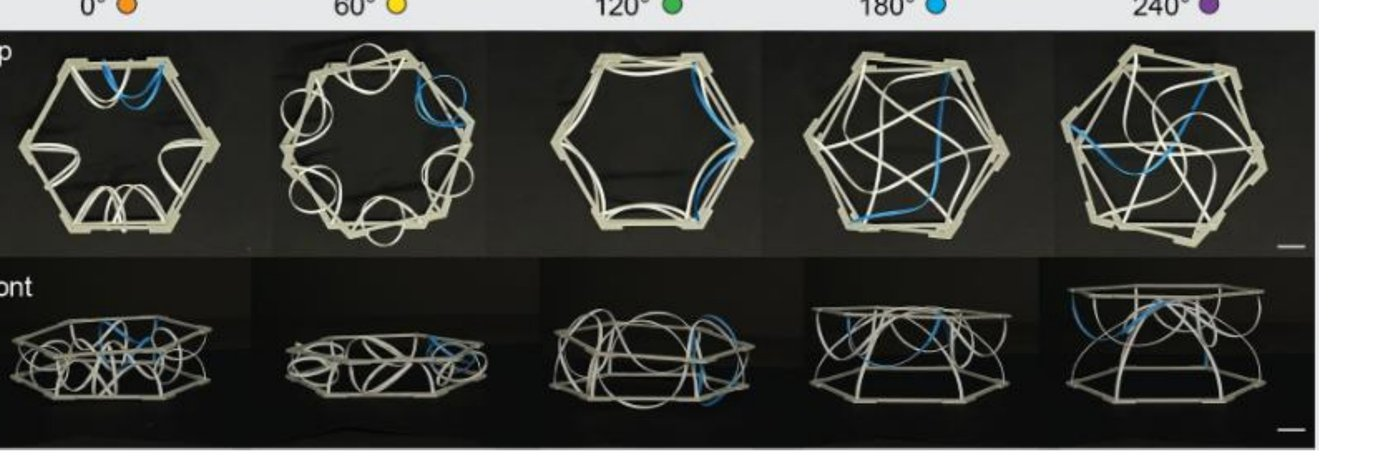
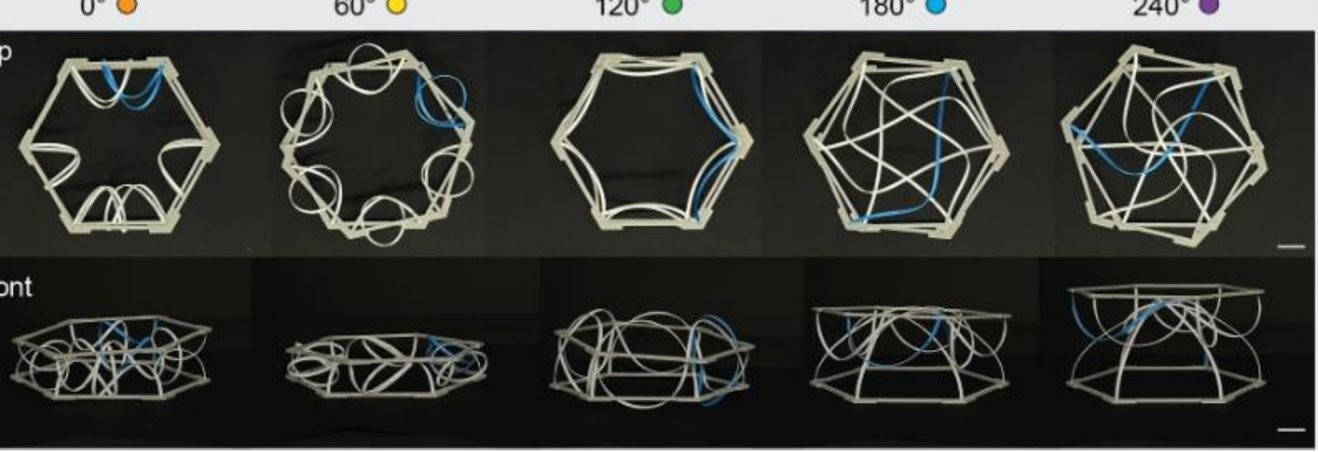
animations

diff --git a/index.html b/index.html
@@ -34,6 +34,7 @@
     <div>
       <div class="eyebrow">Mechanical Engineering &middot; Stanford University &middot; Class of 2028</div>
       <h1>Luca Higgins</h1>
+      <p class="hero-role">Mechanical engineer &amp; <span class="cycle-text" id="cycle-word"></span></p>
       <p class="lead">I design and build robots that swim through blood vessels, fly through the sky, and dive underwater — plus everything in between, from origami-inspired structures to combat robots.</p>
       <div class="hero-links">
         <a class="btn btn-primary" href="projects.html">View Projects</a>
@@ -84,20 +85,26 @@
     </div>
     <div class="grid">
 
-      <div class="card">
+      <div class="card has-thumb">
+        <div class="card-thumb"><img src="assets/images/skyrunners-team.jpg" alt="SkyRunners VTOL Drone"></div>
+        <div class="card-body">
         <div class="eyebrow">Stanford Student Robotics &middot; 2024–present</div>
         <h3>SkyRunners VTOL Drone</h3>
         <p class="muted">Mechanical lead for an autonomous fixed-wing delivery drone — designing vertiports and manufacturing components through iterative prototyping.</p>
         <div class="tag-row"><span class="tag">CAD</span><span class="tag">Additive Mfg.</span><span class="tag">Flight Test</span></div>
         <a class="card-link" href="projects/skyrunners.html">View project &rarr;</a>
+        </div>
       </div>
 
-      <div class="card">
+      <div class="card has-thumb">
+        <div class="card-thumb"><img src="assets/images/robosub-build.jpg" alt="RoboSub AUV"></div>
+        <div class="card-body">
         <div class="eyebrow">Stanford Student Robotics &middot; 2024–2026</div>
         <h3>RoboSub AUV</h3>
         <p class="muted">Designed and fabricated mechanical components for an autonomous underwater vehicle, including an organized, accessible electronics enclosure.</p>
         <div class="tag-row"><span class="tag">CAD</span><span class="tag">3D Printing</span></div>
         <a class="card-link" href="projects/robosub.html">View project &rarr;</a>
+        </div>
       </div>
 
       <div class="card">
@@ -116,12 +123,15 @@
         <a class="card-link" href="projects/battlebots.html">View project &rarr;</a>
       </div>
 
-      <div class="card">
+      <div class="card has-thumb">
+        <div class="card-thumb"><img src="assets/images/ssr-fair.jpg" alt="Stanford Student Robotics"></div>
+        <div class="card-body">
         <div class="eyebrow">Leadership &middot; 2025–2026</div>
         <h3>Stanford Student Robotics</h3>
         <p class="muted">Co-President of a 150+ member engineering organization — led a nine-member exec board and managed a $100k+ annual budget.</p>
         <div class="tag-row"><span class="tag">Leadership</span><span class="tag">Ops &amp; Finance</span></div>
         <a class="card-link" href="projects/ssr.html">View project &rarr;</a>
+        </div>
       </div>
 
     </div>

diff --git a/js/main.js b/js/main.js
@@ -20,4 +20,62 @@ document.addEventListener('DOMContentLoaded', function () {
       if (href) window.location.href = href;
     });
   });
+
+  // ---------- Reveal-on-scroll for cards, sections, and gallery photos ----------
+  var reduceMotion = window.matchMedia && window.matchMedia('(prefers-reduced-motion: reduce)').matches;
+  var revealEls = document.querySelectorAll(
+    '.card, .project-section, .project-meta, .photo-gallery figure, .skill-block, .resume-entry'
+  );
+  if (reduceMotion || !('IntersectionObserver' in window)) {
+    revealEls.forEach(function (el) { el.classList.add('reveal', 'in-view'); });
+  } else {
+    var cardIndex = 0;
+    document.querySelectorAll('.grid .card').forEach(function (card) {
+      card.style.transitionDelay = (cardIndex * 60) + 'ms';
+      cardIndex++;
+    });
+    var revealObserver = new IntersectionObserver(function (entries) {
+      entries.forEach(function (entry) {
+        if (entry.isIntersecting) {
+          entry.target.classList.add('in-view');
+          revealObserver.unobserve(entry.target);
+        }
+      });
+    }, { threshold: 0.12 });
+    revealEls.forEach(function (el) {
+      el.classList.add('reveal');
+      revealObserver.observe(el);
+    });
+  }
+
+  // ---------- Typewriter cycle for the hero role tagline ----------
+  var cycleEl = document.getElementById('cycle-word');
+  if (cycleEl) {
+    var cycleWords = ['innovator', 'creator', 'designer'];
+    if (reduceMotion) {
+      cycleEl.textContent = cycleWords[0];
+    } else {
+      var wordIndex = 0, charIndex = 0, deleting = false;
+      var tick = function () {
+        var word = cycleWords[wordIndex];
+        if (!deleting) {
+          charIndex++;
+          cycleEl.textContent = word.slice(0, charIndex);
+          if (charIndex === word.length) { deleting = true; setTimeout(tick, 1400); return; }
+          setTimeout(tick, 90);
+        } else {
+          charIndex--;
+          cycleEl.textContent = word.slice(0, charIndex);
+          if (charIndex === 0) {
+            deleting = false;
+            wordIndex = (wordIndex + 1) % cycleWords.length;
+            setTimeout(tick, 300);
+            return;
+          }
+          setTimeout(tick, 45);
+        }
+      };
+      tick();
+    }
+  }
 });

diff --git a/css/style.css b/css/style.css
@@ -365,3 +365,61 @@ footer.site-footer a { color: #cbd5e1; }
 /* ---------- Hero back-link (adapts to hero background) ---------- */
 .back-link-hero { color: #cbd5e1; }
 .back-link-hero:hover { color: #fff; }
+
+/* ---------- Subtle animation: hero fade-in ---------- */
+.hero .container > * {
+  opacity: 0;
+  transform: translateY(14px);
+  animation: heroIn 0.6s ease-out forwards;
+}
+.hero .container > *:nth-child(1) { animation-delay: 0s; }
+.hero .container > *:nth-child(2) { animation-delay: 0.08s; }
+.hero .container > *:nth-child(3) { animation-delay: 0.16s; }
+.hero .container > *:nth-child(4) { animation-delay: 0.24s; }
+.hero .container > *:nth-child(5) { animation-delay: 0.32s; }
+.hero-grid > .hero-collage { animation-delay: 0.12s; }
+@keyframes heroIn { to { opacity: 1; transform: translateY(0); } }
+
+/* ---------- Subtle animation: reveal-on-scroll ---------- */
+.reveal {
+  opacity: 0;
+  transform: translateY(18px);
+  transition: opacity 0.5s ease-out, transform 0.5s ease-out;
+}
+.reveal.in-view { opacity: 1; transform: translateY(0); }
+
+/* ---------- Subtle animation: button press feedback ---------- */
+.btn { transition: transform 0.15s ease, background 0.15s ease, color 0.15s ease, border-color 0.15s ease; }
+.btn:active { transform: scale(0.97); }
+.card-link { transition: color 0.15s ease; }
+
+/* ---------- Hero role tagline + typewriter cycle ---------- */
+.hero-role {
+  font-family: var(--mono);
+  font-size: 1.05rem;
+  color: var(--accent);
+  margin: 6px 0 18px;
+}
+.cycle-text { color: #fff; font-weight: 600; }
+.cycle-text::after {
+  content: "";
+  display: inline-block;
+  width: 2px;
+  height: 1em;
+  background: var(--accent);
+  margin-left: 3px;
+  vertical-align: -0.15em;
+  animation: caretBlink 0.9s steps(1) infinite;
+}
+
+/* ---------- Respect reduced-motion preference ---------- */
+@media (prefers-reduced-motion: reduce) {
+  .hero .container > *, .reveal {
+    animation: none !important;
+    transition: none !important;
+    opacity: 1 !important;
+    transform: none !important;
+  }
+  .cycle-text::after { animation: none; }
+}
+@keyframes caretBlink { 50% { opacity: 0; } }

diff --git a/projects/rings.html b/projects/rings.html
@@ -86,7 +86,7 @@
     </div>
 
     <div class="photo-gallery full">
-      <figure><img src="../assets/images/rings-hexagonal-system.jpg" alt="Ten photos of a hexagonal system built from six identical rods, showing five stable states from top and front views"><figcaption>A hexagonal 6-rod system with five stable states.</figcaption></figure>
+      <figure><img src="../assets/images/rings-hexagonal-system.jpg" alt="Ten photos of a hexagonal system built from six identical rods, showing five stable states from top and front views"><figcaption>A hexagonal 6-rod system with five stable states, shown from top and front views.</figcaption></figure>
     </div>
 
     <div class="photo-gallery featured">
